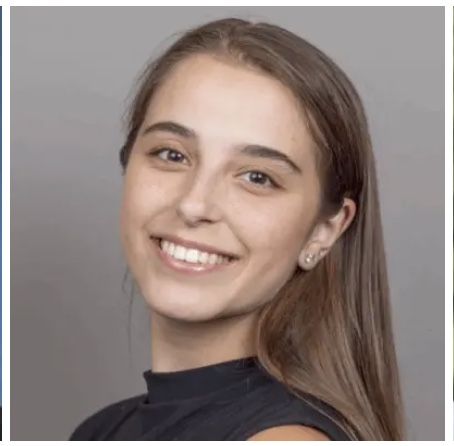
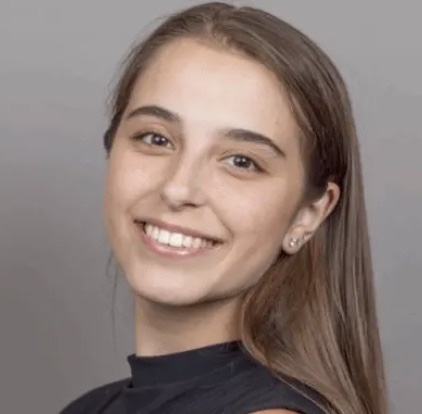
Remove border from Ellie's photo, drop 'with Dr. Bi.' from research credits
Ellie's uploaded photo had a black-and-white frame baked into the
file itself, which showed up as a visible ring inside the circular
photo tiles. Cropped it out.

Removed the trailing ', with Dr. Bi.' from each project's Research
team credit line on the Research page; each list now just ends with
the last name and a period.

diff --git a/app/research/page.tsx b/app/research/page.tsx
@@ -19,10 +19,9 @@ function TeamCredit({ team }: { team: ResearchTeamCredit[] }) {
           <Link href={member.slug ? `/team/${member.slug}` : "/team"} className="link-accent not-italic">
             {member.name}
           </Link>
-          {i < team.length - 1 ? ", " : ""}
+          {i < team.length - 1 ? ", " : "."}
         </span>
       ))}
-      , with Dr. Bi.
     </p>
   );
 }
